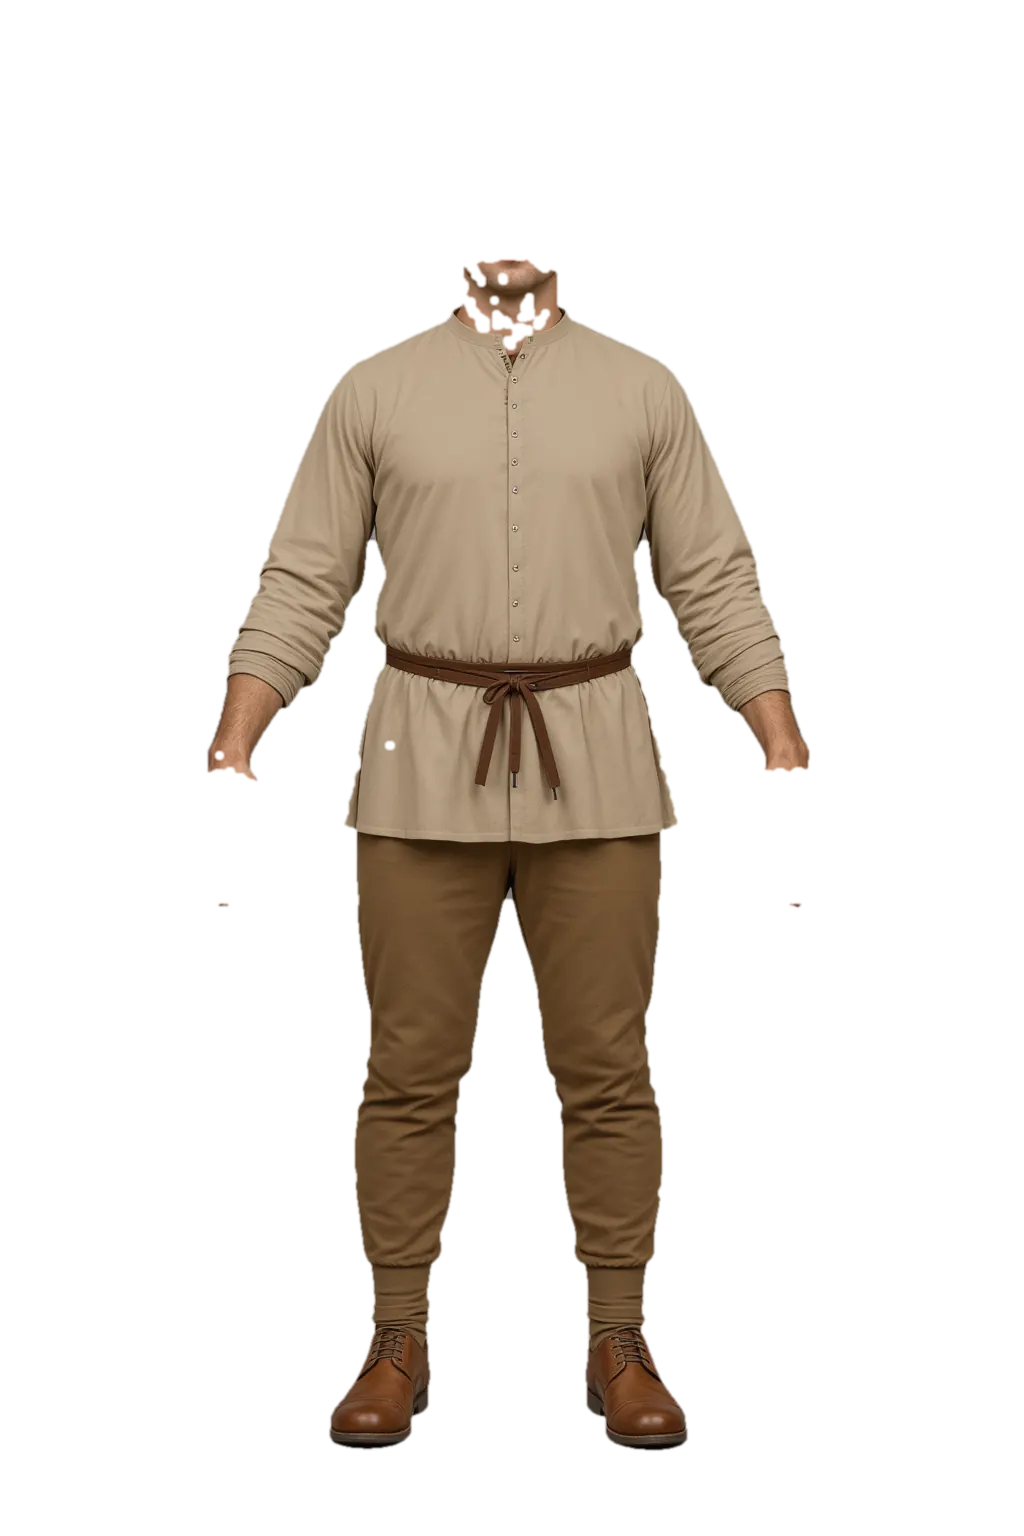
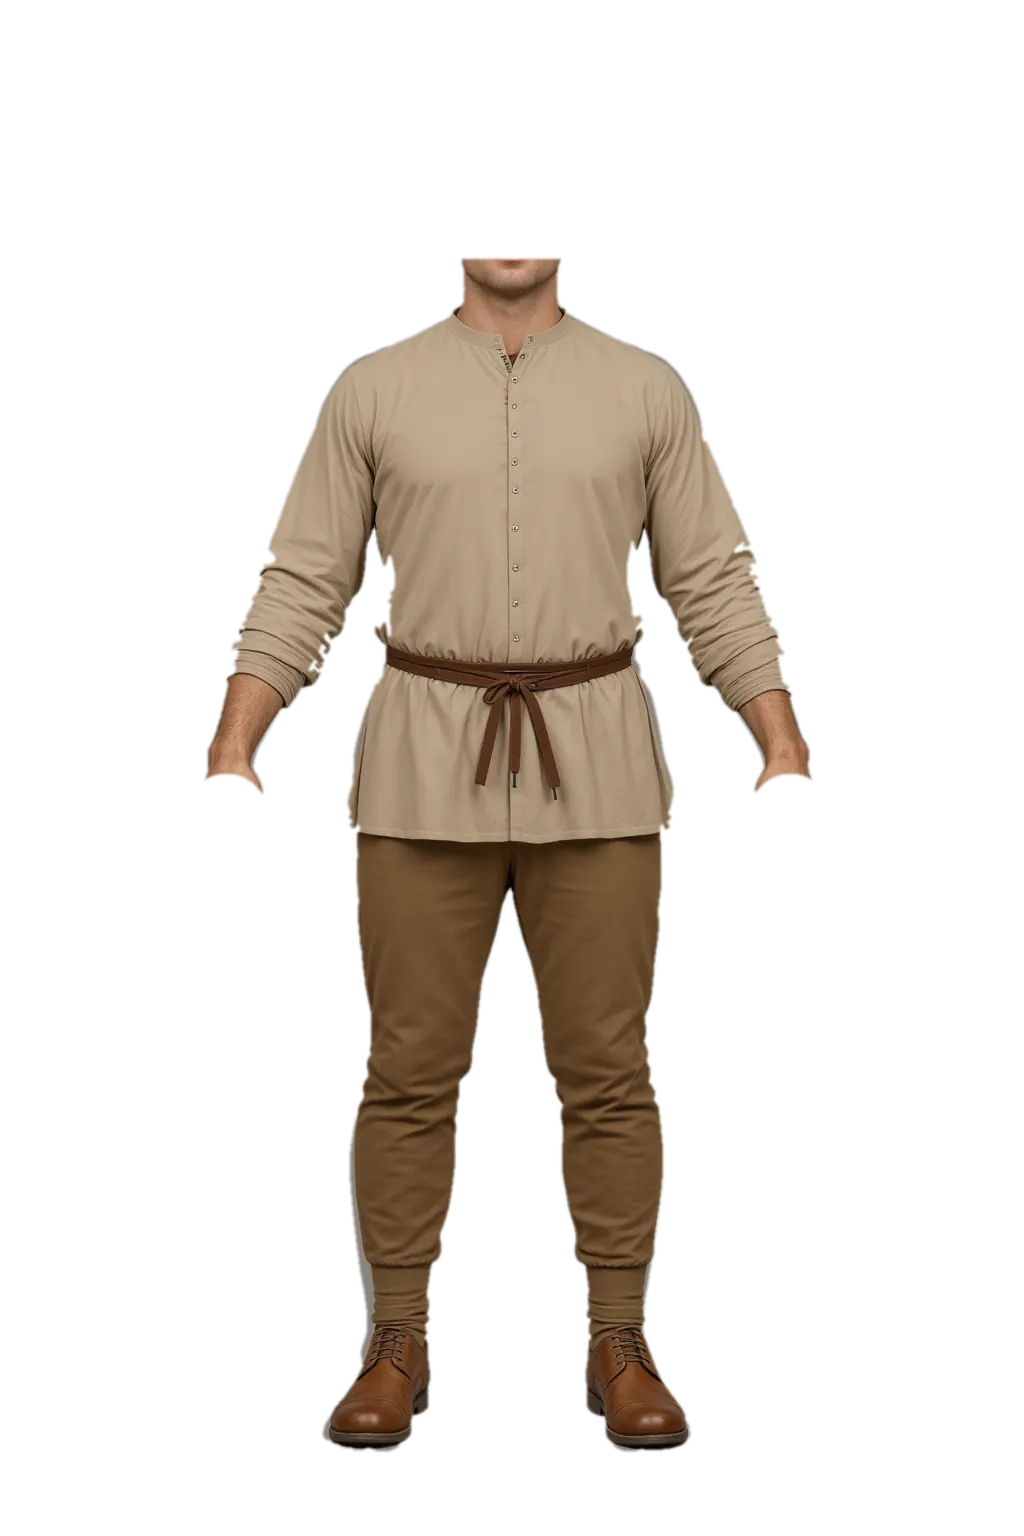
Postava: opravené vyříznutí vrstev z ComfyUI (bez fleků), pláště staženy k přepracování
Claude-Session: https://claude.ai/code/session_01Q25kmyig7a1XRMm7BRupgY

diff --git a/index.html b/index.html
@@ -34,7 +34,7 @@ figcaption{font-size:12px;padding:5px 8px;opacity:.75}
 #lb .tools button{font:inherit;font-size:14px;padding:6px 12px;border-radius:6px;border:1px solid #8a6a3a;background:linear-gradient(#f3e3bf,#d9bf8a);color:#2b1d12;cursor:pointer}
 </style></head><body><header><h1>Královské stezky – hotová grafika<span class="count" id="tot"></span></h1><nav id="nav"></nav></header>
 <div id="g" class="grid"></div><div id="lb"><button class="nav p">‹</button><div class="box"><img id="lbi"><div class="ov night"></div><canvas id="fx"></canvas><div class="ov vig"></div></div><div class="cap" id="lbc"></div><div class="tools" id="tools"><button data-w="eve">🌙 Večer</button><button data-w="rain">🌧 Déšť</button><button data-w="snow">❄ Sníh</button></div><button class="nav n">›</button></div>
-<script>const D=[{"t": "Město", "d": "img", "f": ["mesto-apatykar.webp", "mesto-banka.webp", "mesto-brana.webp", "mesto-chram.webp", "mesto-dum.webp", "mesto-hostinec.webp", "mesto-kolbiste.webp", "mesto-kovar.webp", "mesto-krejci.webp", "mesto-lazebnik.webp", "mesto-mapa.webp", "mesto-paserak.webp", "mesto-pisar.webp", "mesto-pokoj.webp", "mesto-radnice.webp", "mesto-strelmistr.webp", "mesto-trziste.webp", "mesto-vetesnik.webp", "mesto-zbrojir.webp", "mesto-zverinec.webp"]}, {"t": "Mapy oblastí", "d": "img", "f": ["mapa-kanek.webp", "mapa-lezeni.webp", "mapa-malesov.webp", "mapa-rataje.webp", "mapa-sedlec.webp"]}, {"t": "Výpravy", "d": "img/vypravy", "f": ["kanek-01.webp", "kanek-02.webp", "kanek-03.webp", "kanek-04.webp", "kanek-05.webp", "kanek-06.webp", "kanek-07.webp", "kanek-08.webp", "kanek-09.webp", "kanek-10.webp", "kanek-11.webp", "kanek-12.webp", "lezeni-01.webp", "lezeni-02.webp", "lezeni-03.webp", "lezeni-04.webp", "lezeni-05.webp", "lezeni-06.webp", "lezeni-07.webp", "lezeni-08.webp", "lezeni-09.webp", "lezeni-10.webp", "lezeni-11.webp", "lezeni-12.webp", "malesov-01.webp", "malesov-02.webp", "malesov-03.webp", "malesov-04.webp", "malesov-05.webp", "malesov-06.webp", "malesov-07.webp", "malesov-08.webp", "malesov-09.webp", "malesov-10.webp", "malesov-11.webp", "malesov-12.webp", "rataje-01.webp", "rataje-02.webp", "rataje-03.webp", "rataje-04.webp", "rataje-05.webp", "rataje-06.webp", "rataje-07.webp", "rataje-08.webp", "rataje-09.webp", "rataje-10.webp", "rataje-11.webp", "rataje-12.webp", "rataje-13.webp", "rataje-14.webp", "sedlec-01.webp", "sedlec-02.webp", "sedlec-03.webp", "sedlec-04.webp", "sedlec-05.webp", "sedlec-06.webp", "sedlec-07.webp", "sedlec-08.webp", "sedlec-09.webp", "sedlec-10.webp", "sedlec-11.webp", "sedlec-12.webp", "sedlec-13.webp", "sedlec-14.webp", "sedlec-15.webp", "sedlec-16.webp", "sedlec-17.webp", "sedlec-18.webp", "sedlec-19.webp", "sedlec-20.webp", "sedlec-21.webp", "sedlec-22.webp", "sedlec-23.webp", "sedlec-24.webp", "sedlec-25.webp", "sedlec-26.webp", "sedlec-27.webp", "sedlec-28.webp", "sedlec-29.webp", "sedlec-30.webp", "sedlec-31.webp", "sedlec-32.webp", "sedlec-33.webp", "sedlec-34.webp"]}, {"t": "Příběhy", "d": "img/pribehy", "f": ["pribeh-finale.webp", "pribeh-klaster.webp", "pribeh-kostelik.webp", "pribeh-lavka.webp", "pribeh-lis.webp", "pribeh-milir.webp", "pribeh-mlyn.webp", "pribeh-ostruvek.webp", "pribeh-prevoz.webp", "pribeh-sudy.webp", "pribeh-tabor.webp", "pribeh-ves.webp", "pribeh-vez.webp", "pribeh-vuz.webp"]}, {"t": "Situace", "d": "img/situace", "f": ["sit-boss-brana.webp", "sit-brod.webp", "sit-hadanka.webp", "sit-lov-posed.webp", "sit-lov-stopy.webp", "sit-mrtvy-poutnik.webp", "sit-navrat.webp", "sit-noc.webp", "sit-obchodnik.webp", "sit-odpocinek.webp", "sit-pad.webp", "sit-past.webp", "sit-prepadeni.webp", "sit-rybareni.webp", "sit-setkani.webp", "sit-truhla-otevrena.webp", "sit-truhla-zavrena.webp", "sit-vitezstvi.webp", "sit-zamek.webp", "sit-zaval.webp", "sit-zimni-cesta.webp", "sit-zraneny.webp"]}, {"t": "Nepřátelé", "d": "img/bytosti", "f": ["nepritel-divocak.webp", "nepritel-hlidka.webp", "nepritel-krysa.webp", "nepritel-lapka.webp", "nepritel-medved.webp", "nepritel-netopyr.webp", "nepritel-nicema.webp", "nepritel-opilec.webp", "nepritel-pacholek.webp", "nepritel-paserak.webp", "nepritel-strazny.webp", "nepritel-vlk.webp", "nepritel-zbojnik.webp", "nepritel-zbrojnos.webp", "nepritel-zlodej.webp"]}, {"t": "Bossové", "d": "img/bytosti", "f": ["boss-cerny-rytir.webp", "boss-dutohlav.webp", "boss-falesny-kat.webp", "boss-hejtman.webp", "boss-krvavy-kapitan.webp", "boss-krysar.webp", "boss-odpadly-mnich.webp", "boss-polniskudce.webp", "boss-prerostla-krysa.webp", "boss-prevoznik-kuba.webp", "boss-purkrabi-jesek.webp", "boss-rozzureny-medved.webp", "boss-vlk-zabijak.webp", "boss-vztekly-vlk.webp"]}, {"t": "Lovná zvěř", "d": "img/bytosti", "f": ["lov-divocak.webp", "lov-jelen.webp", "lov-liska.webp", "lov-medved.webp", "lov-srnec.webp", "lov-vlk.webp", "lov-zajic.webp"]}, {"t": "Mazlíčci", "d": "img/bytosti", "f": ["zvire-fretka-0.webp", "zvire-fretka-1.webp", "zvire-fretka-2.webp", "zvire-fretka-3.webp", "zvire-havran-0.webp", "zvire-havran-1.webp", "zvire-havran-2.webp", "zvire-havran-3.webp", "zvire-honici-pes-0.webp", "zvire-honici-pes-1.webp", "zvire-honici-pes-2.webp", "zvire-honici-pes-3.webp", "zvire-kocka-0.webp", "zvire-kocka-1.webp", "zvire-kocka-2.webp", "zvire-kocka-3.webp", "zvire-liska-0.webp", "zvire-liska-1.webp", "zvire-liska-2.webp", "zvire-liska-3.webp", "zvire-medved-0.webp", "zvire-medved-1.webp", "zvire-medved-2.webp", "zvire-medved-3.webp", "zvire-mula-0.webp", "zvire-mula-1.webp", "zvire-mula-2.webp", "zvire-mula-3.webp", "zvire-mys-0.webp", "zvire-mys-1.webp", "zvire-mys-2.webp", "zvire-mys-3.webp", "zvire-pes-0.webp", "zvire-pes-1.webp", "zvire-pes-2.webp", "zvire-pes-3.webp", "zvire-sokol-0.webp", "zvire-sokol-1.webp", "zvire-sokol-2.webp", "zvire-sokol-3.webp", "zvire-sova-0.webp", "zvire-sova-1.webp", "zvire-sova-2.webp", "zvire-sova-3.webp", "zvire-valecny-pes-0.webp", "zvire-valecny-pes-1.webp", "zvire-valecny-pes-2.webp", "zvire-valecny-pes-3.webp"]}, {"t": "Portréty", "d": "img/bytosti", "f": ["npc-apatykar.webp", "npc-bylinkarka.webp", "npc-farar.webp", "npc-havir.webp", "npc-hostinsky.webp", "npc-kaplan-matous.webp", "npc-kolbiste.webp", "npc-kovar.webp", "npc-krejci.webp", "npc-lazebnik.webp", "npc-lovci.webp", "npc-mlynar.webp", "npc-nosic.webp", "npc-paserak.webp", "npc-pisar.webp", "npc-prevor-ambroz.webp", "npc-prevoznik.webp", "npc-prezivsi.webp", "npc-purkmistr.webp", "npc-smenarnik.webp", "npc-strazny-brana.webp", "npc-strelmistr.webp", "npc-tajemny-poutnik.webp", "npc-uhlir-vavrinec.webp", "npc-vetesnik.webp", "npc-zbrojir.webp", "npc-zverinec.webp"]}, {"t": "Postava", "d": "img/postava", "f": ["odev-muz-kozich.webp", "odev-muz-lnena-kosile.webp", "odev-muz-suknice.webp", "odev-muz-vlneny-kabatec.webp", "odev-zena-kozisek.webp", "odev-zena-lnena-kosilka.webp", "odev-zena-saty.webp", "odev-zena-vlnene-saty.webp", "plast-muz-vlneny-s-kapi.webp", "plast-zena-cestovni.webp", "plast-zena-vlneny-s-kapi.webp", "postava-telo-muz.webp", "postava-telo-zena.webp", "vlasy-muz-copanek.webp", "vlasy-muz-dlouhe.webp", "vlasy-muz-kratke.webp", "vlasy-muz-kudrnate.webp", "vlasy-muz-ofina.webp", "vlasy-muz-stredni.webp", "vlasy-muz-tonzura.webp", "vlasy-zena-copanek.webp", "vlasy-zena-dlouhe.webp", "vlasy-zena-kratke.webp", "vlasy-zena-kudrnate.webp", "vlasy-zena-ofina.webp", "vlasy-zena-stredni.webp", "vlasy-zena-tonzura.webp", "vousy-bradka.webp", "vousy-dlouhy.webp", "vousy-knir-s-bradkou.webp", "vousy-knirek.webp", "vousy-plnovous.webp", "vousy-rozdvojeny.webp", "vousy-strniste.webp", "zbroj-muz-kapitanova-brigantina.webp", "zbroj-muz-kozena.webp", "zbroj-muz-medvedi.webp", "zbroj-muz-prosivana.webp", "zbroj-muz-purkrabiho-brigantina.webp"]}];let cur=0,idx=0;
+<script>const D=[{"t": "Město", "d": "img", "f": ["mesto-apatykar.webp", "mesto-banka.webp", "mesto-brana.webp", "mesto-chram.webp", "mesto-dum.webp", "mesto-hostinec.webp", "mesto-kolbiste.webp", "mesto-kovar.webp", "mesto-krejci.webp", "mesto-lazebnik.webp", "mesto-mapa.webp", "mesto-paserak.webp", "mesto-pisar.webp", "mesto-pokoj.webp", "mesto-radnice.webp", "mesto-strelmistr.webp", "mesto-trziste.webp", "mesto-vetesnik.webp", "mesto-zbrojir.webp", "mesto-zverinec.webp"]}, {"t": "Mapy oblastí", "d": "img", "f": ["mapa-kanek.webp", "mapa-lezeni.webp", "mapa-malesov.webp", "mapa-rataje.webp", "mapa-sedlec.webp"]}, {"t": "Výpravy", "d": "img/vypravy", "f": ["kanek-01.webp", "kanek-02.webp", "kanek-03.webp", "kanek-04.webp", "kanek-05.webp", "kanek-06.webp", "kanek-07.webp", "kanek-08.webp", "kanek-09.webp", "kanek-10.webp", "kanek-11.webp", "kanek-12.webp", "lezeni-01.webp", "lezeni-02.webp", "lezeni-03.webp", "lezeni-04.webp", "lezeni-05.webp", "lezeni-06.webp", "lezeni-07.webp", "lezeni-08.webp", "lezeni-09.webp", "lezeni-10.webp", "lezeni-11.webp", "lezeni-12.webp", "malesov-01.webp", "malesov-02.webp", "malesov-03.webp", "malesov-04.webp", "malesov-05.webp", "malesov-06.webp", "malesov-07.webp", "malesov-08.webp", "malesov-09.webp", "malesov-10.webp", "malesov-11.webp", "malesov-12.webp", "rataje-01.webp", "rataje-02.webp", "rataje-03.webp", "rataje-04.webp", "rataje-05.webp", "rataje-06.webp", "rataje-07.webp", "rataje-08.webp", "rataje-09.webp", "rataje-10.webp", "rataje-11.webp", "rataje-12.webp", "rataje-13.webp", "rataje-14.webp", "sedlec-01.webp", "sedlec-02.webp", "sedlec-03.webp", "sedlec-04.webp", "sedlec-05.webp", "sedlec-06.webp", "sedlec-07.webp", "sedlec-08.webp", "sedlec-09.webp", "sedlec-10.webp", "sedlec-11.webp", "sedlec-12.webp", "sedlec-13.webp", "sedlec-14.webp", "sedlec-15.webp", "sedlec-16.webp", "sedlec-17.webp", "sedlec-18.webp", "sedlec-19.webp", "sedlec-20.webp", "sedlec-21.webp", "sedlec-22.webp", "sedlec-23.webp", "sedlec-24.webp", "sedlec-25.webp", "sedlec-26.webp", "sedlec-27.webp", "sedlec-28.webp", "sedlec-29.webp", "sedlec-30.webp", "sedlec-31.webp", "sedlec-32.webp", "sedlec-33.webp", "sedlec-34.webp"]}, {"t": "Příběhy", "d": "img/pribehy", "f": ["pribeh-finale.webp", "pribeh-klaster.webp", "pribeh-kostelik.webp", "pribeh-lavka.webp", "pribeh-lis.webp", "pribeh-milir.webp", "pribeh-mlyn.webp", "pribeh-ostruvek.webp", "pribeh-prevoz.webp", "pribeh-sudy.webp", "pribeh-tabor.webp", "pribeh-ves.webp", "pribeh-vez.webp", "pribeh-vuz.webp"]}, {"t": "Situace", "d": "img/situace", "f": ["sit-boss-brana.webp", "sit-brod.webp", "sit-hadanka.webp", "sit-lov-posed.webp", "sit-lov-stopy.webp", "sit-mrtvy-poutnik.webp", "sit-navrat.webp", "sit-noc.webp", "sit-obchodnik.webp", "sit-odpocinek.webp", "sit-pad.webp", "sit-past.webp", "sit-prepadeni.webp", "sit-rybareni.webp", "sit-setkani.webp", "sit-truhla-otevrena.webp", "sit-truhla-zavrena.webp", "sit-vitezstvi.webp", "sit-zamek.webp", "sit-zaval.webp", "sit-zimni-cesta.webp", "sit-zraneny.webp"]}, {"t": "Nepřátelé", "d": "img/bytosti", "f": ["nepritel-divocak.webp", "nepritel-hlidka.webp", "nepritel-krysa.webp", "nepritel-lapka.webp", "nepritel-medved.webp", "nepritel-netopyr.webp", "nepritel-nicema.webp", "nepritel-opilec.webp", "nepritel-pacholek.webp", "nepritel-paserak.webp", "nepritel-strazny.webp", "nepritel-vlk.webp", "nepritel-zbojnik.webp", "nepritel-zbrojnos.webp", "nepritel-zlodej.webp"]}, {"t": "Bossové", "d": "img/bytosti", "f": ["boss-cerny-rytir.webp", "boss-dutohlav.webp", "boss-falesny-kat.webp", "boss-hejtman.webp", "boss-krvavy-kapitan.webp", "boss-krysar.webp", "boss-odpadly-mnich.webp", "boss-polniskudce.webp", "boss-prerostla-krysa.webp", "boss-prevoznik-kuba.webp", "boss-purkrabi-jesek.webp", "boss-rozzureny-medved.webp", "boss-vlk-zabijak.webp", "boss-vztekly-vlk.webp"]}, {"t": "Lovná zvěř", "d": "img/bytosti", "f": ["lov-divocak.webp", "lov-jelen.webp", "lov-liska.webp", "lov-medved.webp", "lov-srnec.webp", "lov-vlk.webp", "lov-zajic.webp"]}, {"t": "Mazlíčci", "d": "img/bytosti", "f": ["zvire-fretka-0.webp", "zvire-fretka-1.webp", "zvire-fretka-2.webp", "zvire-fretka-3.webp", "zvire-havran-0.webp", "zvire-havran-1.webp", "zvire-havran-2.webp", "zvire-havran-3.webp", "zvire-honici-pes-0.webp", "zvire-honici-pes-1.webp", "zvire-honici-pes-2.webp", "zvire-honici-pes-3.webp", "zvire-kocka-0.webp", "zvire-kocka-1.webp", "zvire-kocka-2.webp", "zvire-kocka-3.webp", "zvire-liska-0.webp", "zvire-liska-1.webp", "zvire-liska-2.webp", "zvire-liska-3.webp", "zvire-medved-0.webp", "zvire-medved-1.webp", "zvire-medved-2.webp", "zvire-medved-3.webp", "zvire-mula-0.webp", "zvire-mula-1.webp", "zvire-mula-2.webp", "zvire-mula-3.webp", "zvire-mys-0.webp", "zvire-mys-1.webp", "zvire-mys-2.webp", "zvire-mys-3.webp", "zvire-pes-0.webp", "zvire-pes-1.webp", "zvire-pes-2.webp", "zvire-pes-3.webp", "zvire-sokol-0.webp", "zvire-sokol-1.webp", "zvire-sokol-2.webp", "zvire-sokol-3.webp", "zvire-sova-0.webp", "zvire-sova-1.webp", "zvire-sova-2.webp", "zvire-sova-3.webp", "zvire-valecny-pes-0.webp", "zvire-valecny-pes-1.webp", "zvire-valecny-pes-2.webp", "zvire-valecny-pes-3.webp"]}, {"t": "Portréty", "d": "img/bytosti", "f": ["npc-apatykar.webp", "npc-bylinkarka.webp", "npc-farar.webp", "npc-havir.webp", "npc-hostinsky.webp", "npc-kaplan-matous.webp", "npc-kolbiste.webp", "npc-kovar.webp", "npc-krejci.webp", "npc-lazebnik.webp", "npc-lovci.webp", "npc-mlynar.webp", "npc-nosic.webp", "npc-paserak.webp", "npc-pisar.webp", "npc-prevor-ambroz.webp", "npc-prevoznik.webp", "npc-prezivsi.webp", "npc-purkmistr.webp", "npc-smenarnik.webp", "npc-strazny-brana.webp", "npc-strelmistr.webp", "npc-tajemny-poutnik.webp", "npc-uhlir-vavrinec.webp", "npc-vetesnik.webp", "npc-zbrojir.webp", "npc-zverinec.webp"]}, {"t": "Postava", "d": "img/postava", "f": ["odev-muz-kozich.webp", "odev-muz-lnena-kosile.webp", "odev-muz-suknice.webp", "odev-muz-vlneny-kabatec.webp", "odev-zena-kozisek.webp", "odev-zena-lnena-kosilka.webp", "odev-zena-saty.webp", "odev-zena-vlnene-saty.webp", "postava-telo-muz.webp", "postava-telo-zena.webp", "vlasy-muz-copanek.webp", "vlasy-muz-dlouhe.webp", "vlasy-muz-kratke.webp", "vlasy-muz-kudrnate.webp", "vlasy-muz-ofina.webp", "vlasy-muz-stredni.webp", "vlasy-muz-tonzura.webp", "vlasy-zena-copanek.webp", "vlasy-zena-dlouhe.webp", "vlasy-zena-kratke.webp", "vlasy-zena-kudrnate.webp", "vlasy-zena-ofina.webp", "vlasy-zena-stredni.webp", "vlasy-zena-tonzura.webp", "vousy-bradka.webp", "vousy-dlouhy.webp", "vousy-knir-s-bradkou.webp", "vousy-knirek.webp", "vousy-plnovous.webp", "vousy-rozdvojeny.webp", "vousy-strniste.webp", "zbroj-muz-kapitanova-brigantina.webp", "zbroj-muz-kozena.webp", "zbroj-muz-medvedi.webp", "zbroj-muz-prosivana.webp", "zbroj-muz-purkrabiho-brigantina.webp"]}];let cur=0,idx=0;
 const nav=document.getElementById('nav'),g=document.getElementById('g'),lb=document.getElementById('lb');
 document.getElementById('tot').textContent=D.reduce((s,x)=>s+x.f.length,0)+' obrázků';
 D.forEach((s,i)=>{const b=document.createElement('button');b.textContent=s.t+' ('+s.f.length+')';b.onclick=()=>show(i);nav.appendChild(b)});
